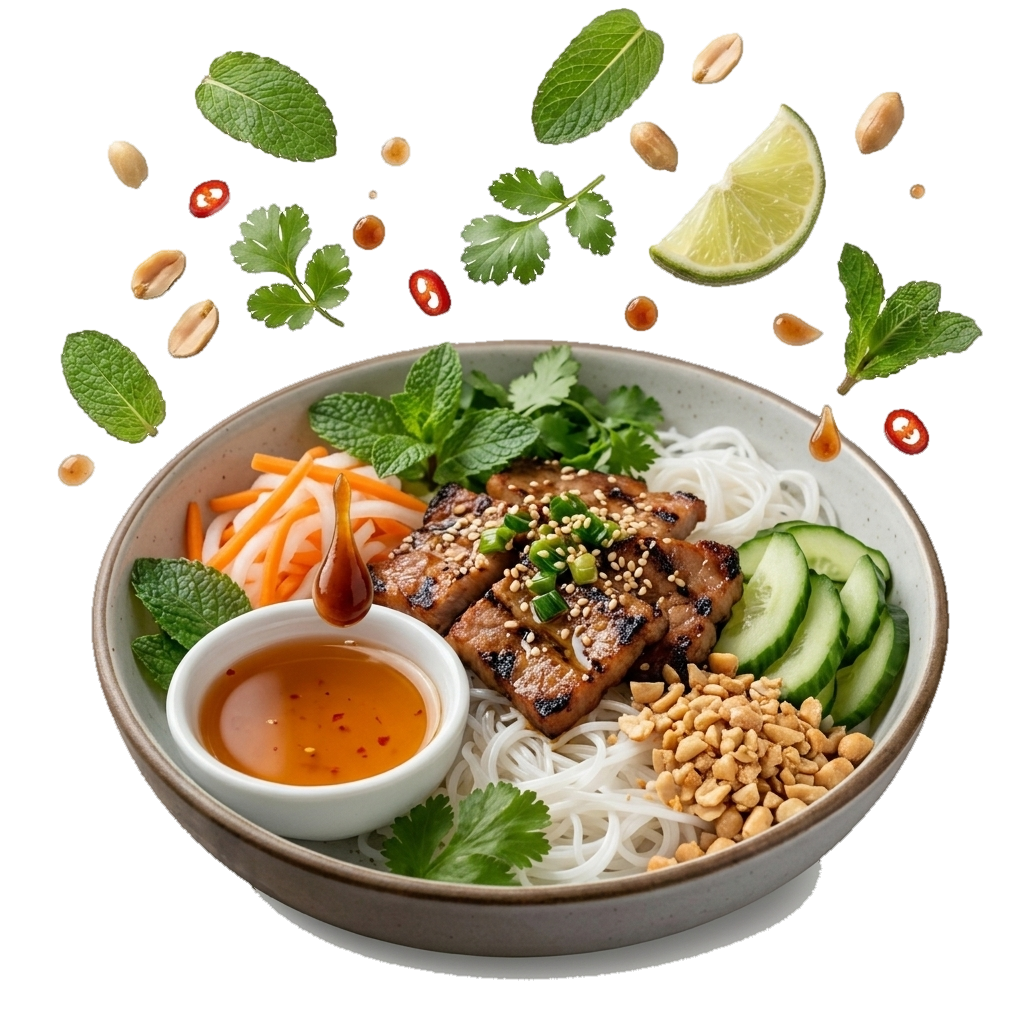
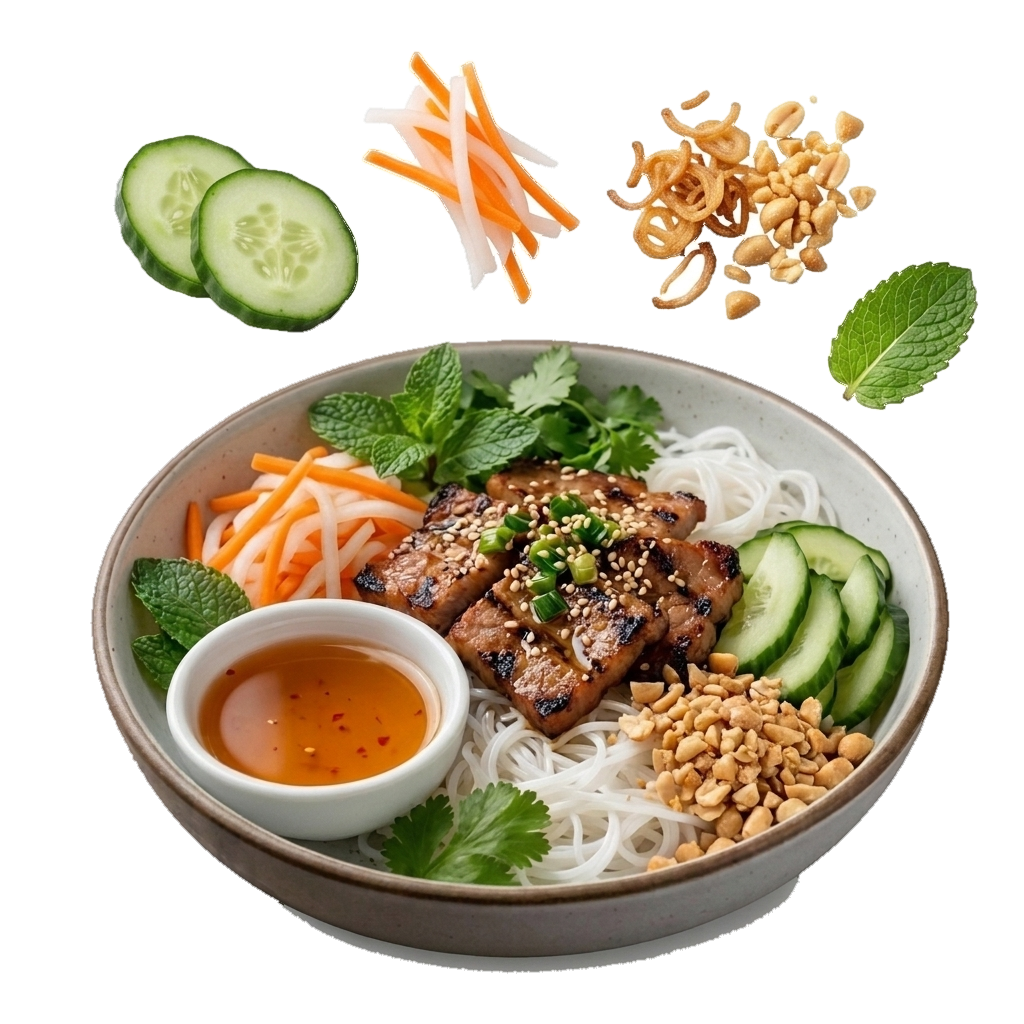
feat(menu,images): update Card 3 to Com Suon Nuong, remove unused images, and refine CTA floating-garnish cutouts

diff --git a/src/index.html b/src/index.html
@@ -525,22 +525,22 @@
             </div>
           </article>
 
-          <!-- Card 3: Prime Grilled Ribeye -->
-          <article class="discover-card" data-target-spread="3" data-target-code="#79">
+          <!-- Card 3: Cơm Sườn Nướng -->
+          <article class="discover-card" data-target-spread="3" data-target-code="#43">
             <div class="discover-card-img-wrap">
               <img
-                src="assets/images/grilled-ribeye-dish.jpg"
-                alt="Prime Grilled Ribeye Steak"
+                src="assets/images/gallery-com-tam-platter.jpg"
+                alt="Cơm Sườn Nướng Char-Grilled Lemongrass Pork Chop Rice"
                 loading="lazy"
               />
             </div>
             <div class="discover-card-body">
               <div class="discover-card-top">
-                <h3 class="discover-dish-name">GRILLED RIBEYE</h3>
-                <span class="discover-dish-price">$36</span>
+                <h3 class="discover-dish-name">CƠM SƯỜN NƯỚNG</h3>
+                <span class="discover-dish-price">$18</span>
               </div>
               <p class="discover-dish-desc">
-                Tender ribeye steak grilled to perfection, served with savory sides and house garlic demi-glace.
+                Char-grilled lemongrass pork chop over steamed jasmine broken rice, served with pickled veggies, sunny-side egg, and house fish sauce.
               </p>
             </div>
           </article>
